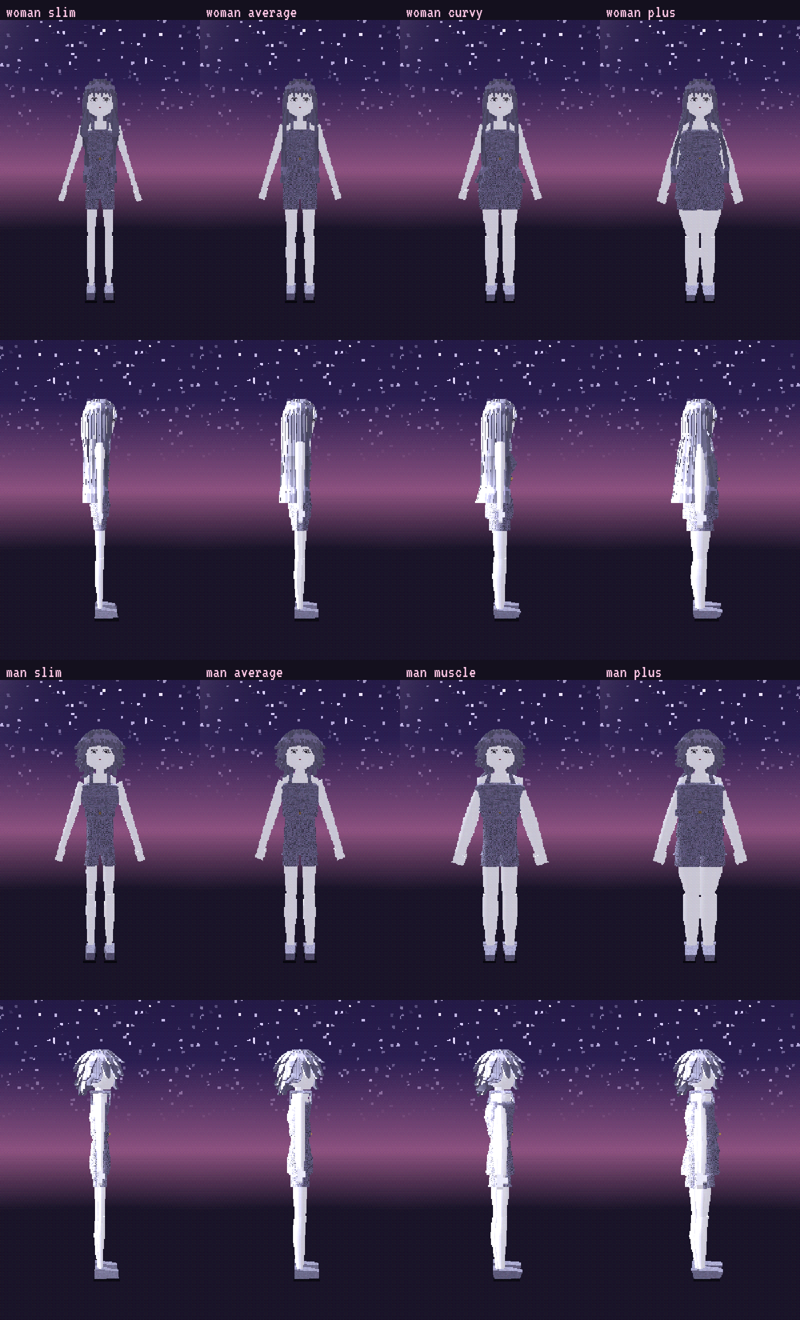
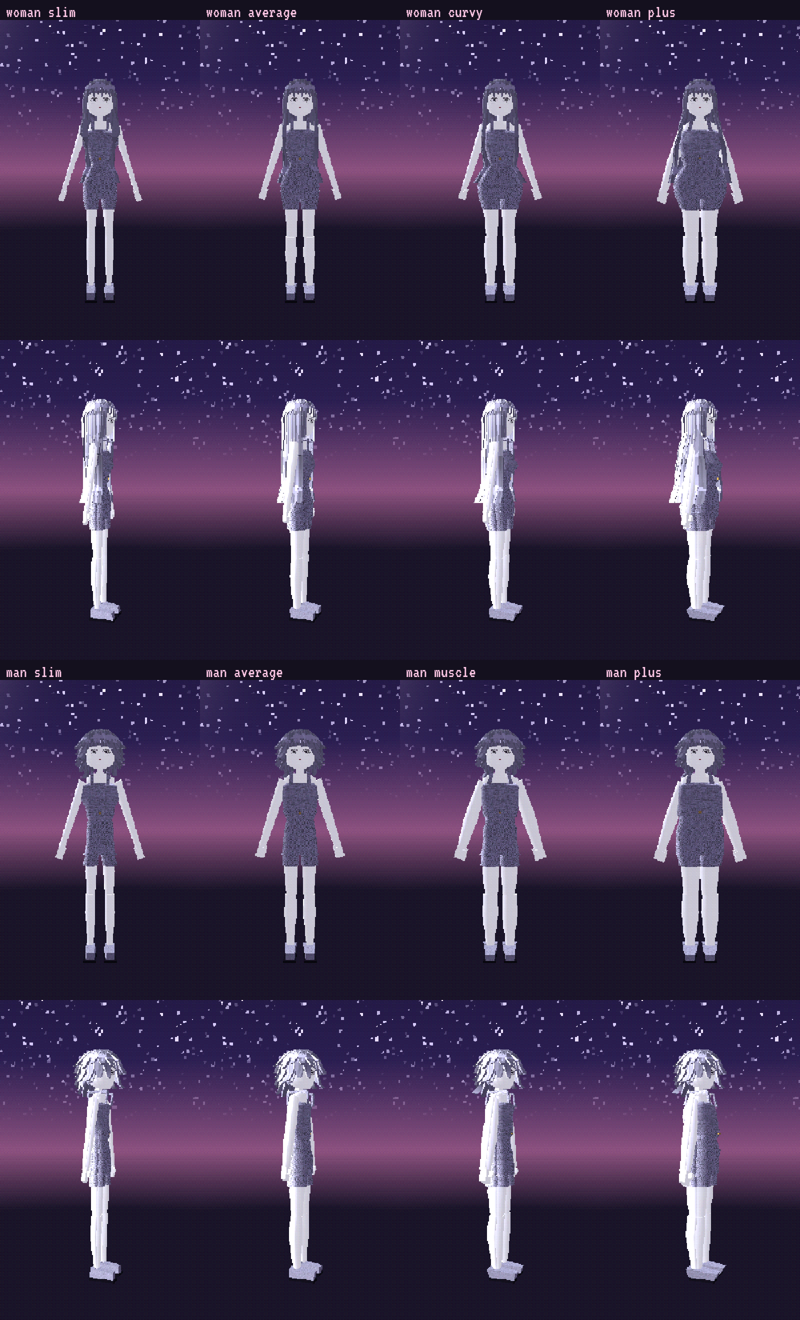
Fuller bust on every woman's body, more on curvy

diff --git a/ArtSource/body_shapes.py b/ArtSource/body_shapes.py
@@ -38,7 +38,7 @@ SHAPES = {
         width=[(0.62, 1.0), (0.72, 1.06), (0.84, 1.2), (0.92, 1.1), (0.99, 0.9), (1.07, 0.94), (1.15, 1.02), (1.30, 1.0)],
         front=[(0.6, 1.0), (0.84, 1.04), (0.99, 0.96), (1.08, 1.0), (1.3, 1.0)],
         back=[(0.6, 1.0), (0.80, 1.24), (0.88, 1.12), (0.99, 0.98), (1.3, 1.0)],
-        arm=1.0, leg=1.06, neck=0.97, bust=0.03),
+        arm=1.0, leg=1.06, neck=0.97, bust=0.046),
     "Slim": dict(
         width=[(0.62, 1.0), (0.76, 0.84), (0.99, 0.84), (1.29, 0.86), (1.34, 1.0)],
         front=[(0.62, 1.0), (0.76, 0.84), (1.29, 0.84), (1.34, 1.0)],
@@ -48,7 +48,7 @@ SHAPES = {
         width=[(0.62, 1.0), (0.72, 1.08), (0.84, 1.18), (0.92, 1.08), (0.99, 0.96), (1.15, 1.06), (1.3, 1.0)],
         front=[(0.6, 1.0), (0.84, 1.06), (1.3, 1.0)],
         back=[(0.6, 1.0), (0.80, 1.2), (0.9, 1.08), (0.99, 1.0), (1.3, 1.0)],
-        arm=1.06, leg=1.18, neck=1.0, bust=0.022),
+        arm=1.06, leg=1.18, neck=1.0, bust=0.032),
     "Plus": dict(
         width=[(0.45, 1.0), (0.62, 1.22), (0.84, 1.42), (0.99, 1.55), (1.10, 1.45), (1.24, 1.3), (1.30, 1.22), (1.35, 1.0)],
         front=[(0.5, 1.0), (0.80, 1.35), (0.95, 1.85), (1.04, 1.75), (1.155, 1.45), (1.28, 1.18), (1.34, 1.0)],
